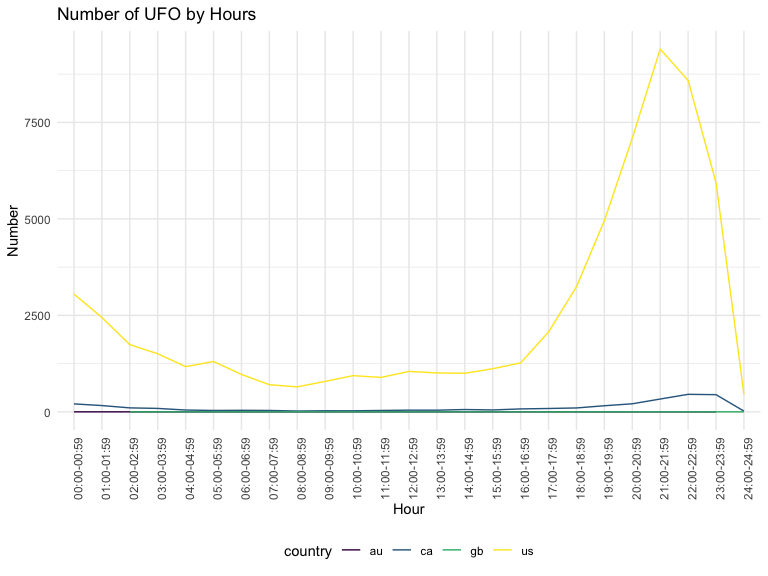
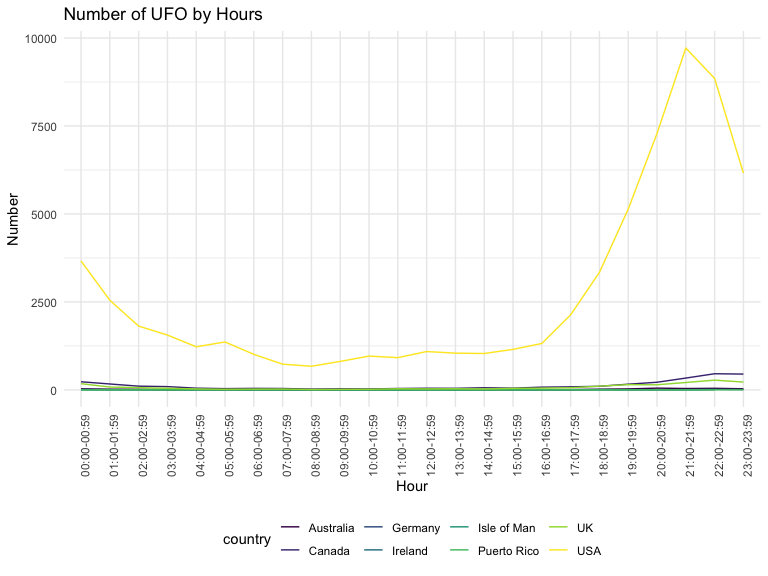
modified visualization file and added plots

diff --git a/visualization_jl.md b/visualization_jl.md
@@ -7,28 +7,28 @@ reading data
 ------------
 
 ``` r
-ufo_data = readr::read_csv("https://raw.githubusercontent.com/rfordatascience/tidytuesday/master/data/2019/2019-06-25/ufo_sightings.csv")
+ufo_data = read_csv("./data/tidied_data_final.csv")
 ```
 
     ## Parsed with column specification:
     ## cols(
+    ##   latitude = col_double(),
+    ##   longitude = col_double(),
     ##   date_time = col_character(),
-    ##   city_area = col_character(),
-    ##   state = col_character(),
-    ##   country = col_character(),
+    ##   city_description = col_character(),
     ##   ufo_shape = col_character(),
-    ##   encounter_length = col_integer(),
+    ##   encounter_length = col_double(),
     ##   described_encounter_length = col_character(),
     ##   description = col_character(),
     ##   date_documented = col_character(),
-    ##   latitude = col_double(),
-    ##   longitude = col_double()
+    ##   country = col_character(),
+    ##   state = col_character(),
+    ##   city = col_character()
     ## )
 
 ``` r
 ufo =
 ufo_data %>%  
-na.omit(ufo_data) %>% 
 separate(date_time, into = c( "date","time"), sep = " " ) %>%
 separate( date, into = c("month","day","year"), sep = "/") 
 ```
@@ -39,8 +39,8 @@ line plot: UFO by time
 ``` r
 plot_time = ufo %>% 
   separate(time, into = c("hour", "minute"), sep = ":") %>% 
-  mutate(hour = paste0(hour, ":00-", hour, ":59")) %>% 
   mutate(hour = recode(hour, "24" = "00")) %>%
+  mutate(hour = paste0(hour, ":00-", hour, ":59")) %>% 
   select(-minute) %>% 
   group_by(hour, country) %>% 
   summarize(n = n()) %>% 
@@ -59,13 +59,44 @@ plot_time
 
 <img src="visualization_jl_files/figure-markdown_github/unnamed-chunk-2-1.png" width="90%" />
 
-spaghetti plot: UFO in US by year (x=hour, y=year/month, group = us)
---------------------------------------------------------------------
+percentage of UFO number (x = hour, y = percentage = number of UFO in the hour in given country / total number of UFO in given country)
+---------------------------------------------------------------------------------------------------------------------------------------
+
+``` r
+num_country = ufo %>% 
+  group_by(country) %>% 
+  summarize(num_country = n())
+hour_country = ufo %>% 
+  separate(time, into = c("hour", "minute"), sep = ":") %>% 
+  mutate(hour = recode(hour, "24" = "00")) %>%
+  mutate(hour = paste0(hour, ":00-", hour, ":59")) %>% 
+  select(-minute) %>% 
+  group_by(hour, country) %>% 
+  summarize(
+    n = n()
+  ) 
+plot_percentage = left_join(hour_country, num_country, by = "country") %>% 
+  mutate(percentage = n / num_country) %>% 
+  ggplot(aes(x = hour, y = percentage, color = country)) +
+  geom_point(aes(group = country)) +
+  geom_line(aes(group = country)) +
+  theme(axis.text.x = element_text(angle = 90, hjust = 1)) +
+  ylim(0, 0.5) +
+  labs(
+    title = "Percentage of UFO by Countries in 24 Hours", 
+    x = "Hour",
+    y = "Percentage"
+  )
+```
+
+spaghetti plot: number of UFO in each hour by month (x=hour, y=year/month, group = us)
+--------------------------------------------------------------------------------------
 
 ``` r
 plot_us_month = ufo %>% 
-  filter(country == "us") %>% 
+  filter(country == "USA", year >= 1950) %>% 
   separate(time, into = c("hour", "minute"), sep = ":") %>% 
+  mutate(hour = recode(hour, "24" = "00")) %>%
   mutate(hour = paste0(hour, ":00-", hour, ":59")) %>% 
   select(-minute) %>% 
   mutate(month = month.name[as.numeric(month)]) %>% 
@@ -84,4 +115,31 @@ plot_us_month = ufo %>%
 plot_us_month
 ```
 
-<img src="visualization_jl_files/figure-markdown_github/unnamed-chunk-3-1.png" width="90%" />
+<img src="visualization_jl_files/figure-markdown_github/unnamed-chunk-4-1.png" width="90%" />
+
+spaghetti plot: number of UFO in each hour by shape (x=hour, y=shape, group = us)
+---------------------------------------------------------------------------------
+
+``` r
+plot_us_shape = ufo %>% 
+  filter(country == "USA", year >= 1950) %>% 
+  separate(time, into = c("hour", "minute"), sep = ":") %>% 
+  mutate(hour = recode(hour, "24" = "00")) %>%
+  mutate(hour = paste0(hour, ":00-", hour, ":59")) %>% 
+  select(-minute) %>% 
+  group_by(hour, ufo_shape) %>% 
+  summarize(n = n()) %>% 
+  ggplot(aes(x = hour, y = n, color = ufo_shape)) +
+  geom_line(aes(group = ufo_shape)) +
+  theme(axis.text.x = element_text(angle = 90, hjust = 1)) +
+  labs(
+    title = "Number of UFO in Each Hour by UFO shape in US",
+    x = "Hour",
+    y = "Number"
+  )
+
+# display the plot
+plot_us_shape
+```
+
+<img src="visualization_jl_files/figure-markdown_github/unnamed-chunk-5-1.png" width="90%" />
